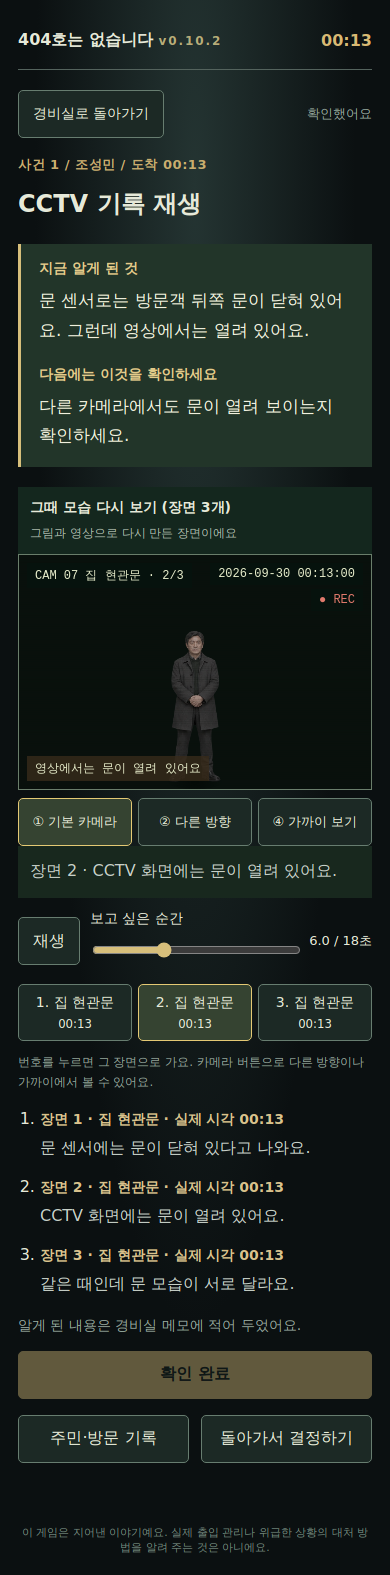
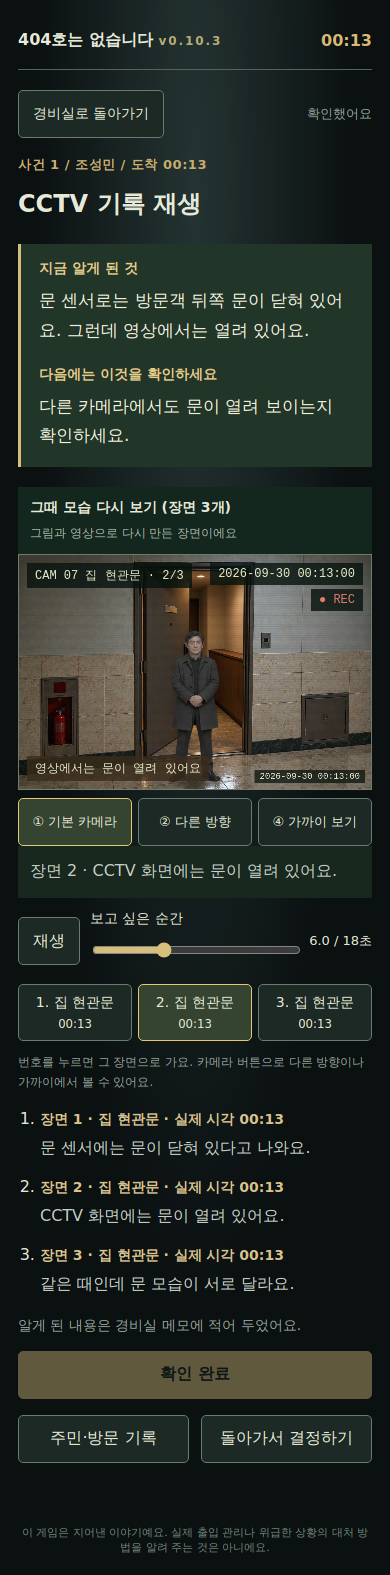
v0.10.3: 아이폰 녹화 기준 수정 — CCTV 배경 항상 표시, 캔버스 카메라 시계, 인터폰 모니터+말풍선
- CCTV: 정지 배경을 캔버스에 항상 그리고 영상 프레임은 준비됐을 때만 덧그림(아이폰에서 배경이 비던 문제)
- CCTV: 캔버스 오른쪽 아래에 카메라 시계 표시. 시계가 단서인 장면은 크게
- 경비실: 방문객을 인터폰 모니터(공동현관 밖, 가슴 위 상반신)로 보여 주고 대사는 말풍선으로
- 검사 14/14, 9/9, 100/100. 문서(CHANGELOG-0.10.3, CODE_GUIDE, WORKLOG, README, GPT_ASSET_PROMPT) 갱신

Claude-Session: https://claude.ai/code/session_01FGAUvVNs8BW1MSHvwbK7z4

Changed region(s): [[0.0308, 0.3422, 0.9538, 0.5289]]

diff --git a/404호는 없습니다/room404/dist/replay.js b/404호는 없습니다/room404/dist/replay.js
@@ -134,10 +134,11 @@ export async function mountReplay(host,{pack,visitor,time,date,scenes=pack.scene
   setVideo(sceneVideo(s,look,camera),local);
   const clipHasActor=false;
   ctx.clearRect(0,0,960,640);
-  if(!(videoOk&&videoSrc)){
-   const key=place==='door'?(mode==='doorOpen'||(mode==='doorCompare'&&phase>.4&&phase<.8)?'doorOpen':'door'):place;
-   ctx.drawImage(background(key),0,0,960,640);
-  }
+  // The still background is always drawn first; the ambient clip is painted over it from the <video> element when a frame is
+  // ready. iPhones often leave a covered or seeking <video> blank, so this way a photo is always on screen (v0.10.3).
+  const key=place==='door'?(mode==='doorOpen'||(mode==='doorCompare'&&phase>.4&&phase<.8)?'doorOpen':'door'):place;
+  ctx.drawImage(background(key),0,0,960,640);
+  if(videoOk&&videoSrc&&video.readyState>=2&&!video.seeking){try{ctx.drawImage(video,0,0,960,640)}catch{}}
   cameraTransform(view,pos);
   let {x,y,h}=pos;
   // Walking across the frame paces the stride by distance travelled so the feet never slide; depth walks use the clock.
@@ -169,6 +170,9 @@ export async function mountReplay(host,{pack,visitor,time,date,scenes=pack.scene
   if(!(videoOk&&videoSrc)||mode!=='loading'){ctx.fillStyle='#07100a16';for(let yLine=0;yLine<640;yLine+=5)ctx.fillRect(0,yLine,960,1)}
   const states={doorClosed:'직접 확인: 문이 닫혀 있어요',doorOpen:'영상에서는 문이 열려 있어요',doorCompare:'같은 시간인데 문 상태가 달라요',recorded:'지금 영상 버튼에 옛 영상이 나와요',live:'녹화 버튼에 지금 영상이 나와요',reboot:'카메라를 껐다 켠 뒤 옛 화면',loading:'지금 화면을 불러오는 중…',dateOnly:'날짜가 아직 안 바뀌었어요',delay3:'3분 늦게 보이는 화면',clock7:'카메라 표시 시계',repeat:'같은 장면이 반복돼요',fingerprint:'장갑 때문에 지문이 안 읽혀요',ring:'문 앞 휴대전화도 같이 울려요',echo:'같은 말을 조금 늦게 따라 해요',voiceEarly:'음성: 손을 들었어요',voiceLate:'뒤늦게 영상의 손이 올라옴',preMove:'재생하기 전에 고개를 돌려요',compare:'같은 시간, 다른 장소',hairOld:'예전 사진과 지금 모습'};
   hudState.hidden=!states[mode];hudState.textContent=states[mode]||'';
+  // Camera's own on-screen clock, burned into the picture like a real recorder. Bigger when the trick is about the time.
+  {const big=['clock7','delay3','dateOnly','yesterday','recorded','live','reboot'].includes(mode),osd=`${(mode==='yesterday'?previousDate(date):date)} ${sceneTime(s,time)}:${String(Math.floor(phase*6)).padStart(2,'0')}`;
+   ctx.save();ctx.font=`${big?34:24}px ui-monospace,monospace`;const w=ctx.measureText(osd).width+28,hh=big?50:36;ctx.fillStyle=big?'#07130ee6':'#07130ebb';ctx.fillRect(960-w-16,640-hh-16,w,hh);ctx.fillStyle=big?'#f3e6a8':'#dfe7c9';ctx.textBaseline='middle';ctx.fillText(osd,960-w-2,640-16-hh/2);ctx.restore()}
   const cut=cutUntil-performance.now();
   if(cut>0){const k=Math.min(1,cut/CUT_MS);ctx.fillStyle=`rgba(3,8,6,${k*.95})`;ctx.fillRect(0,0,960,640);ctx.fillStyle=`rgba(200,220,200,${k*.5})`;ctx.fillRect(0,320-k*4,960,k*8)}
   hudCam.textContent=`CAM ${String(Object.keys(BACKGROUNDS).indexOf(place)+1).padStart(2,'0')} ${LOCATIONS[place]||VIEW_NAMES[place]} · ${index+1}/${scenes.length}${camera==='main'?'':' · '+CAMERAS[camera].slice(2)}`;

diff --git a/404호는 없습니다/room404/dist/style.css b/404호는 없습니다/room404/dist/style.css
@@ -80,3 +80,15 @@
 @media (prefers-reduced-motion: reduce){#result[data-ending=lost] #ending{animation:none}}
 
 [data-book]{touch-action:pan-y}
+
+/* v0.10.3: the visitor is outside, seen on the intercom monitor from the chest up; what they say is a speech bubble below. */
+.intercom{border:1px solid #435649;border-top:0;background:linear-gradient(#1b2924,#101a18);padding:12px}
+.intercom-screen{aspect-ratio:3/2;max-width:540px;border:2px solid #2f3f36;border-radius:4px;box-shadow:inset 0 0 40px #000c;overflow:hidden}
+.intercom-screen::before{content:'';position:absolute;inset:0;background:repeating-linear-gradient(#0000 0 3px,#07100a2e 3px 5px);pointer-events:none;z-index:2}
+.intercom-screen .bust{position:absolute;left:50%;bottom:0;transform:translateX(-50%);width:42%;height:62%;min-width:0;overflow:hidden;filter:saturate(.75) brightness(.9) drop-shadow(0 0 10px #000a);z-index:1}
+.intercom-screen .bust .person-sprite{width:100%;height:262%;background-size:400% 100%}
+.intercom-tag{position:absolute;top:8px;left:8px;z-index:3;font:11px ui-monospace,monospace;letter-spacing:.08em;color:#e7edcb;background:#07130ecc;padding:4px 8px}
+.speech{position:relative;margin:18px 6px 4px;padding:14px 16px;background:#e9e4d2;color:#1d2420;border-radius:14px}
+.speech::before{content:'';position:absolute;top:-12px;left:50%;margin-left:-10px;border:10px solid transparent;border-top:0;border-bottom-color:#e9e4d2}
+.speech .eyebrow{color:#5a4e2e;margin:0 0 6px}.speech h2{margin:0;font-size:20px;line-height:1.45;color:#1d2420}
+@media (max-width:360px){.speech h2{font-size:17px}}

diff --git a/404호는 없습니다/room404/dist/index.html b/404호는 없습니다/room404/dist/index.html
@@ -36,7 +36,7 @@
     <section id="game" hidden>
       <div class="status"><span id="shiftLabel">첫 근무</span><span id="progress">01 / 08</span><span id="mistakes">틀린 판단 0</span></div>
       <div class="camera">현관 인터폰 <span>● LIVE</span></div>
-      <div class="visitor scene-media" data-poster="guard-office" data-video="01-office-ambient"><div id="portrait" class="portrait">◐</div><div><p id="identity" class="eyebrow"></p><h2 id="claim"></h2></div></div>
+      <div class="intercom"><div class="intercom-screen scene-media" data-poster="cctv-lobby"><div id="portrait" class="portrait bust">◐</div><span class="intercom-tag">인터폰 카메라 · 공동현관 밖</span></div><div class="speech"><p id="identity" class="eyebrow"></p><h2 id="claim"></h2></div></div>
       <p id="routine" class="routine" aria-live="polite"></p><button id="guidedAction" class="primary full"></button><div class="tools"><button data-tool="CCTV">① CCTV 보기</button><button data-tool="명부">② 주민·방문 기록</button><button data-tool="통화">③ 집에 전화하기</button><button id="verify">④ 한 번 더 확인</button></div>
       <div id="evidence" class="evidence" aria-live="polite"><strong>지금까지 알게 된 것</strong><p>위 버튼을 차례로 눌러 확인해 보세요. 얼굴만 보고 정하면 안 돼요.</p></div>
       <div class="decision"><button id="deny">문 열지 않기</button><button id="allow" class="primary">들여보내기</button></div>

diff --git a/404호는 없습니다/room404/dist/sw.js b/404호는 없습니다/room404/dist/sw.js
@@ -1,4 +1,4 @@
-const CACHE='room404-v0.10.2';
+const CACHE='room404-v0.10.3';
 const FILES=['./','./index.html','./style.css','./game.js','./engine.js','./replay.js','./voice.js','./sfx.js','./manifest.webmanifest','./data/visitors.json','./data/anomalies.json','./data/scenarios.json','./icons/icon-180.png','./icons/icon-192.png','./icons/icon-512.png','./assets/visitors.png','./assets/visitors-before-haircut.png',...['cctv-lobby','cctv-lobby-side','cctv-hall','cctv-elevator','cctv-stairs','cctv-parking','door-closed','door-open','title-night','guard-office','intercom-desk','ledger-desk','ending-dawn','visitor-01-walk','visitor-02-walk','visitor-03-walk','visitor-04-walk',...[1,2,3,4].flatMap(n=>[`visitor-0${n}-walk-toward`,`visitor-0${n}-walk-away`,`visitor-0${n}-gestures`]),'cctv-hall-side','cctv-elevator-lobby','cctv-stairs-up','cctv-parking-side','door-far','cctv-lobby-top','prop-hat','prop-umbrella','prop-mask','prop-phone','prop-parcel','prop-glove'].map(n=>`./assets/v2/${n}.webp`)];
 // Videos are not precached (8.8 MB, range requests); without network the photo backdrops are shown instead.
 self.addEventListener('install',event=>event.waitUntil((async()=>{const cache=await caches.open(CACHE);await cache.addAll(FILES);await self.skipWaiting()})()));

diff --git a/404호는 없습니다/room404/dist/game.js b/404호는 없습니다/room404/dist/game.js
@@ -176,4 +176,4 @@ $('backDesk').onclick=backDesk;$('finishInspect').onclick=backDesk;$('toolAction
 $('startStory').onclick=()=>start('story');$('startDaily').onclick=()=>start('daily');$('resume').onclick=render;$('homeButton').onclick=home;$('again').onclick=()=>start(run.mode);$('resultHome').onclick=home;
 document.querySelectorAll('[data-tool]').forEach(b=>b.onclick=()=>inspect(b.dataset.tool));$('verify').onclick=verify;$('allow').onclick=()=>{primeAudio();decide(true)};$('deny').onclick=()=>{primeAudio();decide(false)};$('next').onclick=next;$('share').onclick=share;$('retry').onclick=boot;
 window.addEventListener('beforeinstallprompt',e=>{e.preventDefault();deferredInstall=e;$('install').hidden=false});$('install').onclick=async()=>{if(deferredInstall){await deferredInstall.prompt();deferredInstall=null;$('install').hidden=true}};window.addEventListener('appinstalled',()=>{$('install').hidden=true});
-document.addEventListener('visibilitychange',()=>{if(document.hidden&&run)save();activateMedia()});$('version').textContent='v0.10.2';boot();
+document.addEventListener('visibilitychange',()=>{if(document.hidden&&run)save();activateMedia()});$('version').textContent='v0.10.3';boot();

diff --git a/404호는 없습니다/docs/CODE_GUIDE.md b/404호는 없습니다/docs/CODE_GUIDE.md
@@ -2,7 +2,7 @@
 
 코드 구조를 섹션별로 정리합니다. **코드를 바꾸면 해당 섹션도 함께 고칩니다.**
 
-- 기준 버전: v0.10.2 (2026-09-30)
+- 기준 버전: v0.10.3 (2026-10-01)
 - 코드 위치: `room404/`
 - 빌드 과정 없이 `room404/dist/` 폴더를 그대로 웹 서버에 올리면 실행됩니다.
 
@@ -75,7 +75,7 @@ home ──시작──▶ game ◀──돌아가기── investigation
 |---|---|
 | `boot()` | JSON 3개를 불러와 개수(각 100개)를 검증하고, 저장된 근무를 복원합니다. 실패하면 "다시 불러오기" 버튼을 보여 줍니다. |
 | `current()` | 지금 사건의 방문객(`v`), 이상 징후(`a`), 시나리오(`pack`)를 합칩니다. `pack.unitOverride`가 있으면 방문 호수를 덮어씁니다. `fillDeep()`이 사건 전체의 `{name}`, `{unit}`을 한 번에 채웁니다. |
-| `render()` | `run.screen`에 따라 화면을 그립니다. |
+| `render()` | `run.screen`에 따라 화면을 그립니다. 경비실 화면은 인터폰 모니터(`.intercom-screen`, 현관 배경 위에 방문객 상반신 `#portrait.bust`)와 말풍선(`.speech`, `#identity`·`#claim`)입니다(v0.10.3). |
 | `evidence()`, `timeline()` | 경비실 화면의 "다음 할 일"과 사건 타임라인 |
 | `inspect(tool)`, `verify()`, `renderTool()` | 조사 화면을 엽니다. **열기만 해서는 확인 처리되지 않습니다.** `readTool()`(아래쪽 주 버튼)을 눌러야 `run.seen`에 기록됩니다. |
 | `documentView()`, `mountBooks()` | 관리실 기록부. 펼치기 전에는 표지를 보여 주고, 펼치면 4장을 넘겨 봅니다: ① 오늘 밤 방문 기록(`bookEntries()`가 날짜와 사건으로 앞서 온 3명을 고정 생성) ② 이 사람이 말한 것 ③ 관리실 기록 ④ 나란히 비교. 버튼, 밀기(40px 이상. 휴대폰은 `touchstart/touchend`, 마우스는 pointer 이벤트, `touch-action:pan-y`), 좌우 화살표로 넘깁니다. |
@@ -113,7 +113,7 @@ home ──시작──▶ game ◀──돌아가기── investigation
 ## 5. CCTV 재현 (replay.js)
 
 - 사건마다 장면 3개, 장면당 6초로 총 18초입니다.
-- **두 층**으로 되어 있습니다. 아래는 장소별 영상(`<video class="replay-video">`), 위는 투명한 canvas입니다. 영상이 없거나 열리지 않으면 canvas가 배경 사진을 직접 그립니다. 글자(카메라 이름, 시각, 상태)는 그 위의 HTML(`.replay-hud`)입니다.
+- **두 층**으로 되어 있습니다. 아래는 장소별 영상(`<video class="replay-video">`), 위는 canvas입니다. canvas는 **정지 배경을 항상 먼저 그리고**, 영상 프레임이 준비됐을 때(`readyState>=2`, 탐색 중 아님) `drawImage(video)`로 덧그립니다(v0.10.3. 아이폰이 가려진 `<video>`를 비워 두는 문제 대응). 글자(카메라 이름, 시각, 상태)는 그 위의 HTML(`.replay-hud`)이고, 카메라 시계는 canvas 오른쪽 아래에 새겨 넣습니다(시계가 단서인 장면에서는 크고 노란색).
 - `sceneVideo(scene, look, camera)`가 장면에 맞는 배경 영상을 고릅니다. 순서: 다른 방향 카메라면 그 장소의 모니터 영상 → 위에서 카메라면 없음 → 신호 끊김(loading) → 문 비교/열린 문 → 장소별 모니터 영상. 인물이 들어 있는 영상(걷기 13~16, 이상 17~22)은 크기가 고정되어 CCTV에서 쓰지 않고, 처음 안내의 예시로만 씁니다(v0.10.1).
 - 영상 시간은 `setVideo()`가 재생 위치(장면 안에서 0~6초)에 맞춥니다. 재생 중에는 0.3초 이상 어긋날 때만 맞춥니다.
 - **원근법**: `LAYOUT[장소]`에 기준 발 위치 `y`와 그때의 키 `h`, 지평선 `horizon`, 뒤쪽 출발점 `far`/`farX`가 있습니다. 값은 사진 속 문(2.1m)·차를 재서 **같은 깊이에서 사람이 문의 약 80%** 가 되게 맞춘 것입니다(v0.10.1). 배경을 바꾸면 이 기준으로 다시 잽니다. `heightAt(장소, 발 y)`가 발 위치로 키를 정합니다. 걸어오는 경로는 `perspectiveY()`의 1/거리 원근과 직선 이동을 반반 섞습니다(v0.10.2. 순수 원근은 앞 3초가 거의 멈춰 보였음). x는 발 위치에 비례해 화면에서 직선이 됩니다.
@@ -209,7 +209,7 @@ npm run test:all-cases   # 사건 100개 × 장면 3개 전수 검사
 - 브라우저 검사는 `speechSynthesis`를 가짜로 바꿔 끼워 통화 음성을 검사합니다(읽은 줄 수, ko-KR, 사람마다 다른 높이, 소리 끄기). `primeVoice()`의 빈 발화는 세지 않습니다.
 - 테스트용 서버는 `tests/static-server.mjs`입니다. 영상 탐색에 필요한 Range 요청을 지원합니다.
 - 이 환경의 브라우저는 GPU가 없어 스크린샷에 영상이 검게 나옵니다. 영상 확인은 `data-video`와 `currentTime`으로 합니다.
-- 마지막 결과(2026-09-30, v0.10.2): 14/14, 9/9, 100/100 모두 통과
+- 마지막 결과(2026-10-01, v0.10.3): 14/14, 9/9, 100/100 모두 통과
 
 ## 10. 주의사항
 
@@ -232,6 +232,8 @@ npm run test:all-cases   # 사건 100개 × 장면 3개 전수 검사
 | 낮음 | 결말 24개 추가 구현 | `endings.json` 30개 중 6개만 구현되어 있습니다. |
 
 ### 완료한 개선
+
+- v0.10.3: 아이폰 녹화 기준 수정 — CCTV 배경을 캔버스에 항상 그리고 영상은 덧그리기, 캔버스 안 카메라 시계, 경비실 화면을 인터폰 모니터(상반신)+말풍선으로.
 
 - v0.10.2: 휴대폰 실기기 지적 수정 — 걷기 시트 자동 정렬·중심 보정·12fps·bob, 접근 속도 완화, 인물 밝기, iOS 음성·소리 허용(`primeAudio`), 터치 밀기, 글자색 고정.
 

diff --git a/404호는 없습니다/room404/CHANGELOG-0.10.3.md b/404호는 없습니다/room404/CHANGELOG-0.10.3.md
@@ -1,0 +1,21 @@
+# 0.10.3 — 아이폰 화면 녹화로 확인한 3가지 수정
+
+2026-10-01
+
+사용자가 보낸 화면 녹화(20초)와 캡처 2장을 보고 고쳤다.
+
+## 1. CCTV에 배경 화면이 안 나옴
+- 녹화를 1초마다 뽑아 보니 장면 1·2는 내내 배경이 검게 비어 있고, 장면 3에서 1초 정도만 배경이 보였다. 아이폰 Safari가 캔버스에 가려진 `<video>`나 탐색(seek) 중인 `<video>`를 그리지 않는 경우다. 코드는 영상이 "열렸다"고 보고 정지 배경을 그리지 않았다.
+- 이제 **정지 배경을 항상 먼저 그리고**, 영상 프레임이 준비됐을 때만(`readyState>=2`, 탐색 중 아님) 그 위에 `drawImage(video)`로 덧그린다. 영상이 안 되는 기기에서도 항상 사진이 보인다.
+
+## 2. 화면 시계가 안 보임
+- "7분 늦은 시계" 사건인데 화면 안에 시계가 없고 상단 HUD의 작은 시각만 있었다. 실제 녹화기처럼 **캔버스 오른쪽 아래에 카메라 시계(날짜·시:분:초)를 새겨 넣었다.** 시계가 단서인 장면(clock7, delay3, dateOnly, yesterday, recorded, live, reboot)에서는 더 크고 노란색이다.
+
+## 3. 경비실 화면: 방문객이 경비실 안에 전신으로 서 있음
+- 사용자 지적: 방문객은 밖에 있어야 하고 상반신만 보여야 한다. 대사는 말풍선이나 대화창으로.
+- 경비실 화면을 **인터폰 모니터**로 바꿨다: 공동현관 밖(현관 배경) 위에 방문객 **가슴 위 상반신**이 카메라 바로 앞에 크게 보이고, 주사선과 "인터폰 카메라 · 공동현관 밖" 표시가 있다(`.intercom-screen .bust`, 서 있는 그림의 위 38%만 잘라 보여 줌).
+- 방문객의 말은 모니터 아래 **말풍선**(`.speech`, 밝은 바탕에 꼬리)으로 보여 준다. 이름·역할·방문 호수는 말풍선 위 작은 줄이다.
+- 경비실 배경 영상(01-office-ambient)은 이 화면에서 쓰지 않는다. `#portrait`, `#identity`, `#claim` id는 그대로라 저장·검사에 영향이 없다.
+
+## 검사
+- 엔진·데이터 14/14, 브라우저 9/9, 전수 100/100 통과. 캐시 이름 `room404-v0.10.3`.

diff --git a/404호는 없습니다/docs/WORKLOG.md b/404호는 없습니다/docs/WORKLOG.md
@@ -92,3 +92,12 @@
 - 원인과 수정은 `room404/CHANGELOG-0.10.2.md`에 있습니다. 요약: 걷기 시트가 걷는 순서가 아니어서 자동 정렬·중심 보정·12fps·오르내림 추가, 접근 속도 완화, 인물 밝기 낮춤 / iOS는 탭 안에서 첫 소리를 내야 해서 `primeAudio()` / 터치 이벤트로 밀기 / `body` 글자색 고정.
 - 검사: 14/14, 9/9, 100/100 통과. 같은 링크에 다시 올렸습니다.
 - 남은 확인: 실제 휴대폰에서 다시 확인 필요. 걷기 그림 자체가 8칸 모두 비슷한 자세라 한계가 있어, 다음 그림 묶음에서 **걷기 8칸을 실제 걷는 순서**로 받으면 더 좋아집니다.
+
+## 2026-10-01
+
+### v0.10.3 — 아이폰 화면 녹화 기준 수정
+- 사용자가 보낸 화면 녹화를 1초 단위 프레임으로 뽑아 확인했습니다(이 환경에는 ffmpeg가 없어 `imageio-ffmpeg`를 pip로 설치해 썼습니다. 아이폰 녹화는 HEVC라 Chromium으로는 열리지 않습니다).
+- 확인된 문제: CCTV 배경이 거의 내내 검게 비어 있음(아이폰이 가려진 video를 그리지 않음), 화면 시계 없음, 경비실 화면에 방문객이 전신으로 안에 서 있음.
+- 수정: 캔버스가 정지 배경을 항상 그리고 영상은 덧그리기, 캔버스 안 카메라 시계, 인터폰 모니터(상반신)+말풍선. 자세한 내용은 `room404/CHANGELOG-0.10.3.md`.
+- 검사: 14/14, 9/9, 100/100 통과. 같은 테스트 링크에 다시 올렸습니다.
+- 남은 확인: 실제 아이폰에서 배경·시계·인터폰 화면 확인. 인터폰 전용 배경(현관 밖에서 카메라를 보는 구도)은 아직 없어 공동현관 배경을 씁니다. 다음 그림 묶음에 넣으면 좋습니다.

diff --git a/404호는 없습니다/README.md b/404호는 없습니다/README.md
@@ -2,12 +2,12 @@
 
 아파트 야간 경비원이 방문객을 들여보낼지 판단하는 한국어 공포 게임입니다. 한 번 구매하면 계속 쓰고, 광고와 추가 결제는 없습니다.
 
-## 현재 상태 (2026-09-30)
+## 현재 상태 (2026-10-01)
 
 | 항목 | 상태 |
 |---|---|
 | 운영 사이트 | v0.5.0 (ChatGPT Sites, 소유자 전용) |
-| 최신 작업본 | v0.10.2 — `room404/` (운영 미배포). 쉬운 대사, 전화 목소리, 넘기는 기록부, 이미지 v2·v3, 장소별 2대 카메라, 원근법·연출·효과음, 휴대폰 지적 수정 |
+| 최신 작업본 | v0.10.3 — `room404/` (운영 미배포). 쉬운 대사, 전화 목소리, 넘기는 기록부, 이미지 v2·v3, 장소별 2대 카메라, 원근법·연출·효과음, 휴대폰 지적 수정, 인터폰 모니터+말풍선 |
 | 웹 테스트 링크 | https://claude.ai/artifact/5SGZeeX8wAE1mDyaYGG48B (최신 작업본을 그대로 올림. 결과 이미지 저장 버튼은 이 뷰어에서 동작하지 않음) |
 | iOS 앱 | Capacitor 8.5.2 Xcode 프로젝트 초안 (v0.2 기준, 최신 코드와 동기화 필요) |
 | Android 앱 | 아직 없음 |

diff --git a/404호는 없습니다/docs/GPT_ASSET_PROMPT.md b/404호는 없습니다/docs/GPT_ASSET_PROMPT.md
@@ -223,3 +223,7 @@ Drive `404호는 없습니다_게임 개발/이미지_v3/` 아래:
 - `screens/` : guard-monitors.png, lobby-door-inside.png, ending-404.png
 
 같은 내용이 Drive 프로젝트 폴더에 `404호는_없습니다_이미지_v3_GPT_프롬프트.md`로도 올라가 있습니다.
+
+## 추가 요청 (v0.10.3에서 생긴 필요)
+
+- `intercom-outside.png` (1536×1024): 아파트 공동현관 **밖**에서 인터폰 카메라가 보는 구도. 유리문 앞 작은 처마 아래, 밤, 비, 가로등. 카메라는 사람 얼굴 높이(약 1.5m)에서 정면을 봄. 가운데 가슴 위가 들어갈 자리를 비워 둠. 사람 없음. 다른 공통 지시는 위와 같음.
